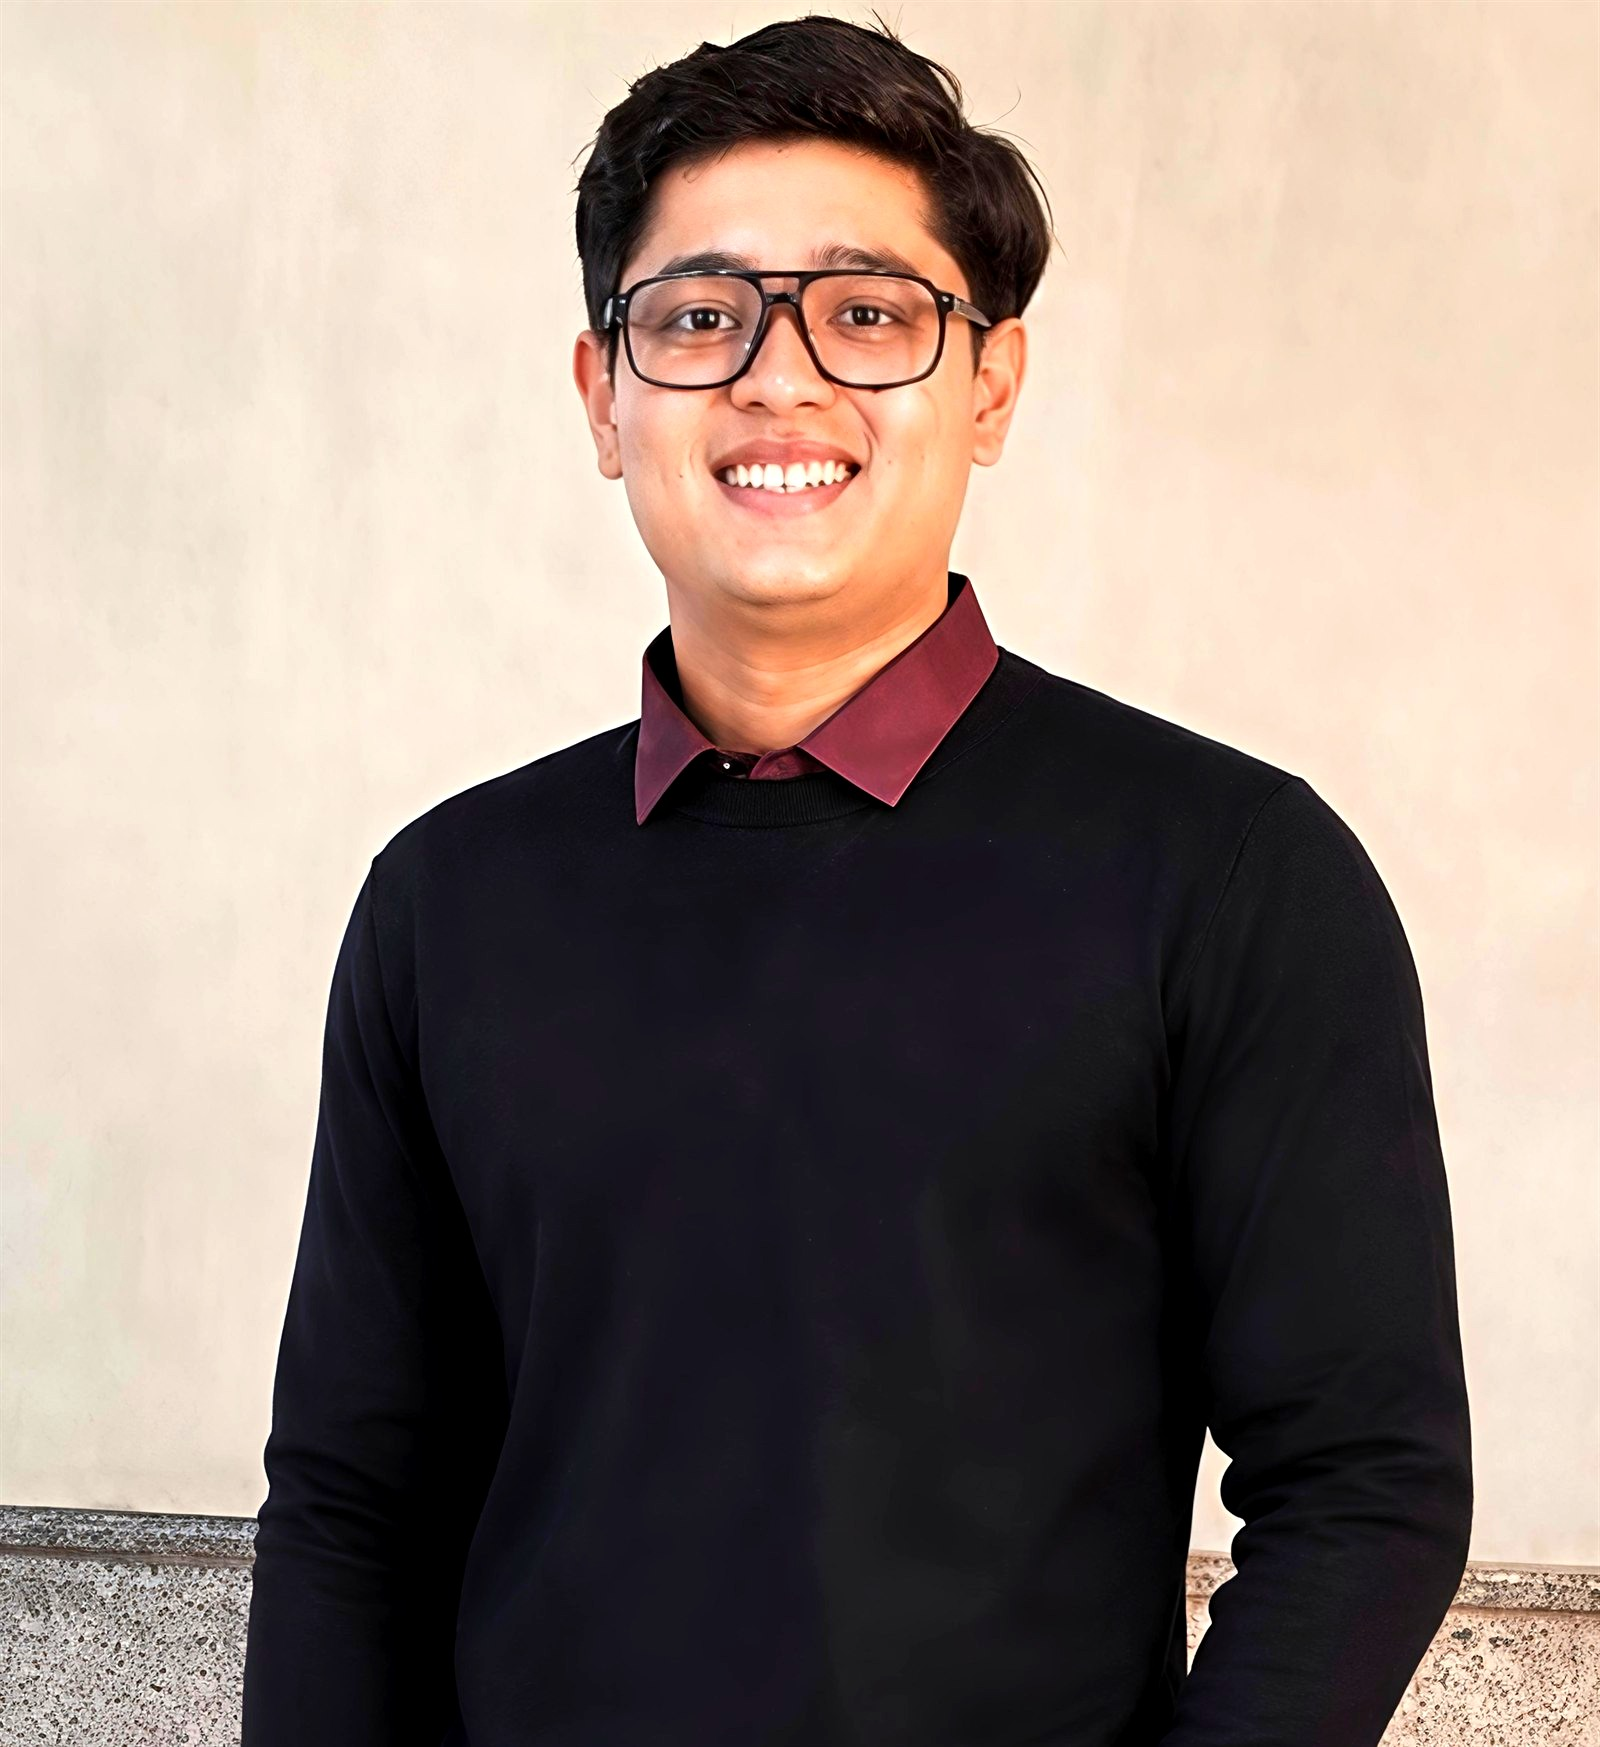
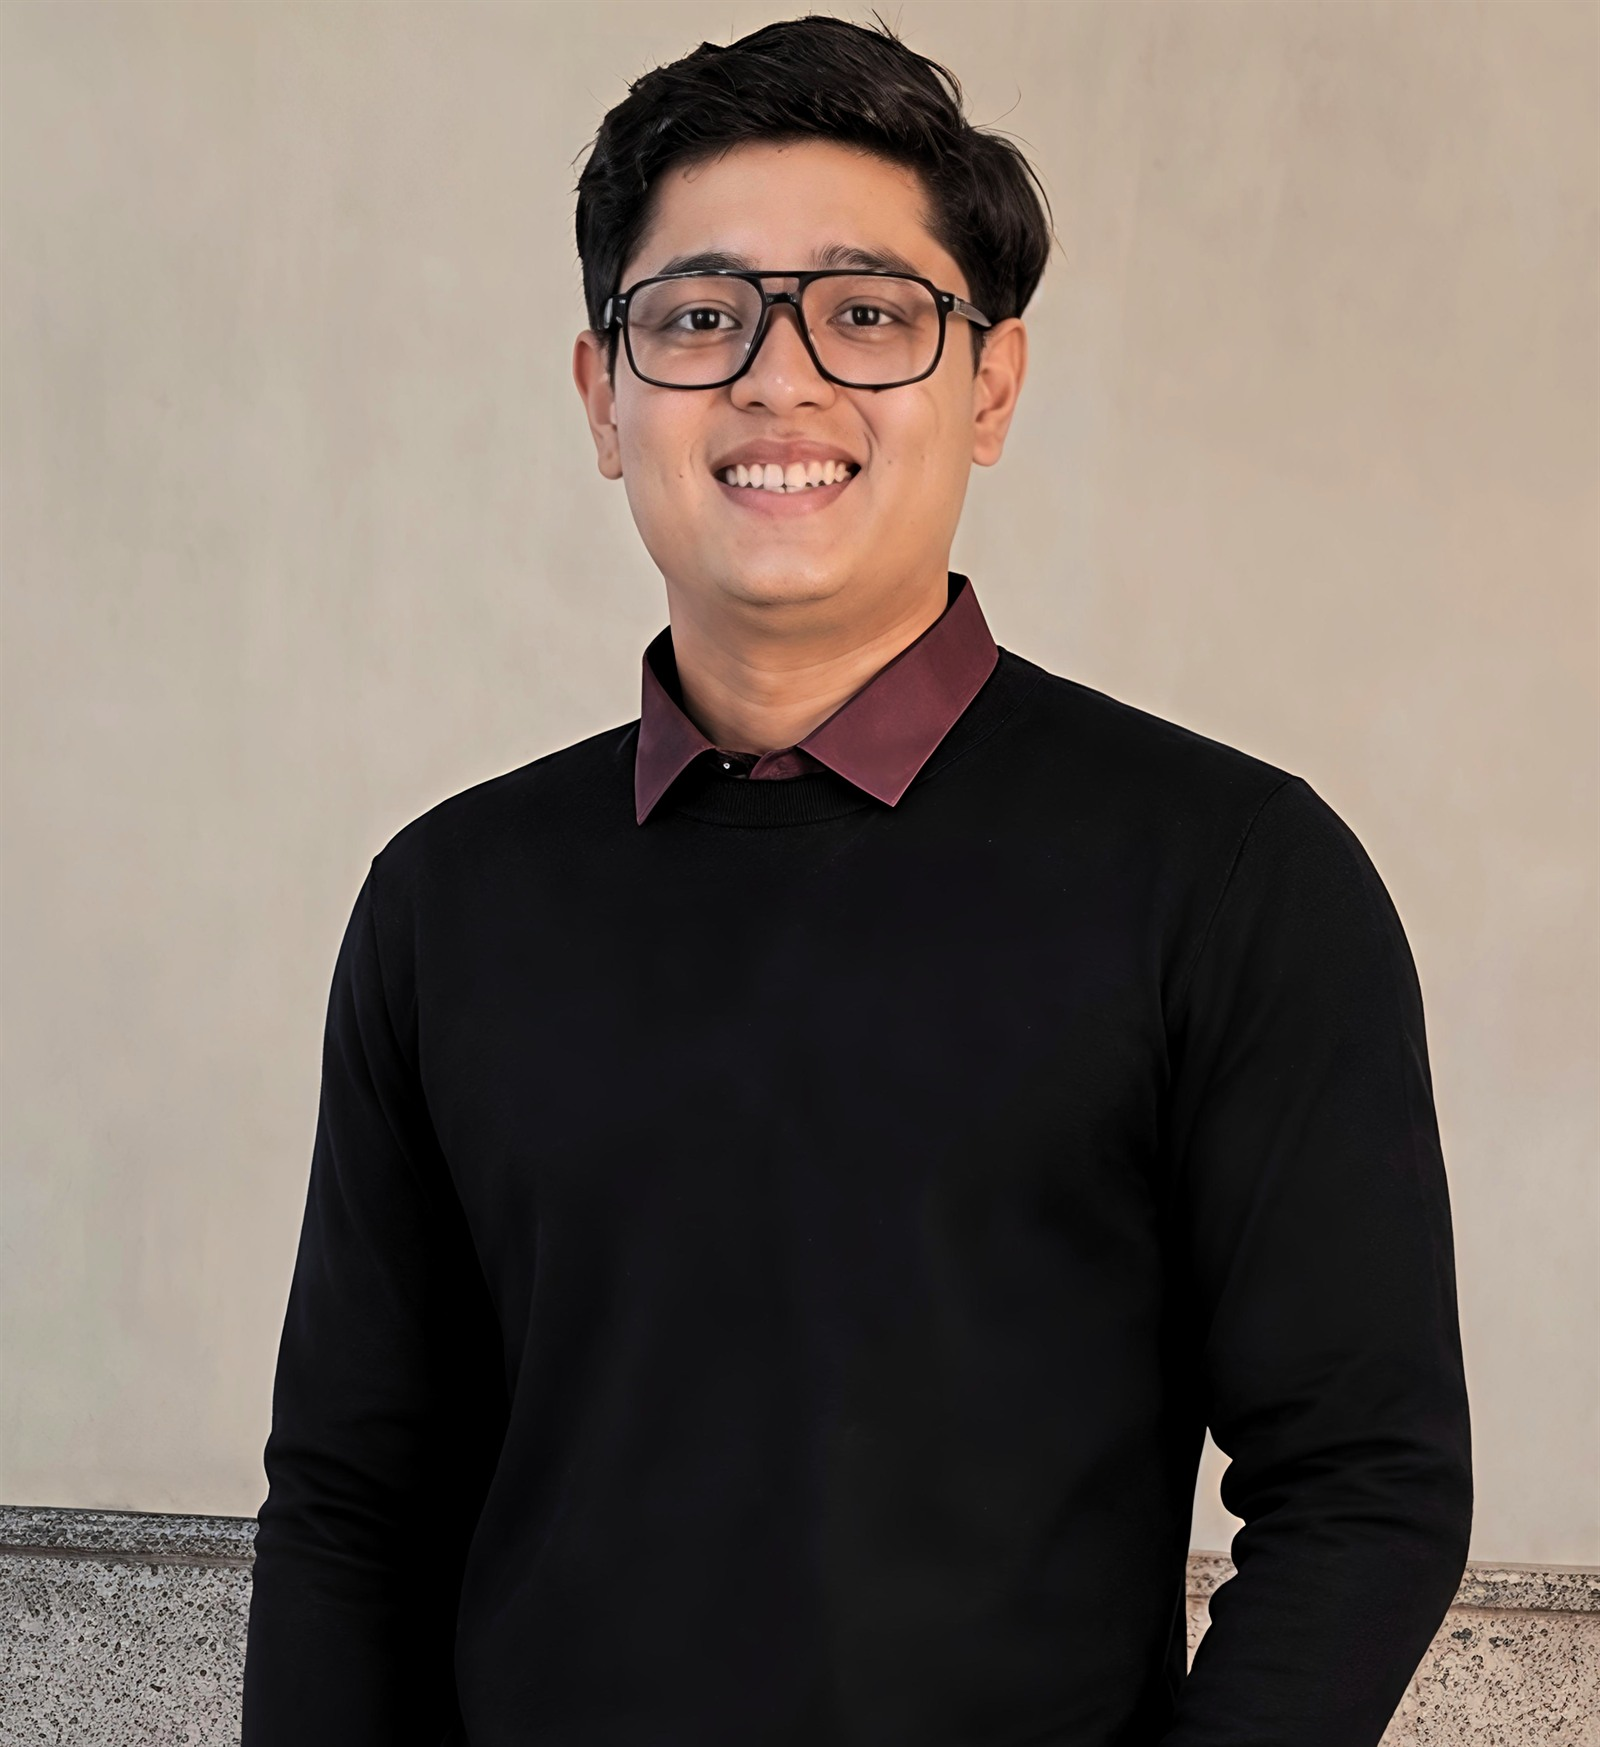
Use the supplied edited portrait as-is, frame matched to its own ratio
Swapped in the edited photo from the Desktop with no colour grading applied, and dropped the plum duotone layer so the edit shows exactly as supplied. The About frame now carries the photo's own 3514x3836 ratio instead of a square, so nothing is cropped. The share card is regenerated from the same file; that one still crops to 1200x630 because the card is landscape, with the face kept on the centre line.

diff --git a/src/components/sections/about.tsx b/src/components/sections/about.tsx
@@ -23,10 +23,10 @@ export default function About() {
       <div className="relative mx-auto grid max-w-[1400px] gap-12 px-6 md:grid-cols-12 md:gap-16 md:px-10">
         {/* photo */}
         <div className="md:col-span-5 md:col-start-1">
-          <div className="relative aspect-square w-full overflow-hidden rounded-sm bg-cream-dim shadow-[0_34px_90px_-36px_rgba(110,39,70,0.2)]">
-            {/* no parallax overscale here — it was clipping the top of his
-                hair. A square frame anchored to the top keeps the head whole
-                and takes the crop off the bottom instead. */}
+          {/* the frame carries the photo's own 3514x3836 ratio, so nothing is
+              cropped and no grade is layered over it — the edit shows exactly
+              as it was supplied */}
+          <div className="relative aspect-[3514/3836] w-full overflow-hidden rounded-sm bg-cream-dim shadow-[0_34px_90px_-36px_rgba(110,39,70,0.2)]">
             <div className="absolute inset-0">
               <Image
                 src="/rishi.jpg"
@@ -35,12 +35,9 @@ export default function About() {
                 priority
                 quality={92}
                 sizes="(min-width: 768px) 40vw, 90vw"
-                className="object-cover object-top"
+                className="object-cover"
               />
             </div>
-            {/* whisper of plum in the shadows — light enough to stay a grade,
-                not a filter, so skin tones keep their colour */}
-            <div className="absolute inset-0 bg-gradient-to-t from-terracotta/18 via-transparent to-peach/10 mix-blend-soft-light" />
             <div className="absolute inset-0 ring-1 ring-inset ring-ink/10" />
 
             {/* corner caption */}
